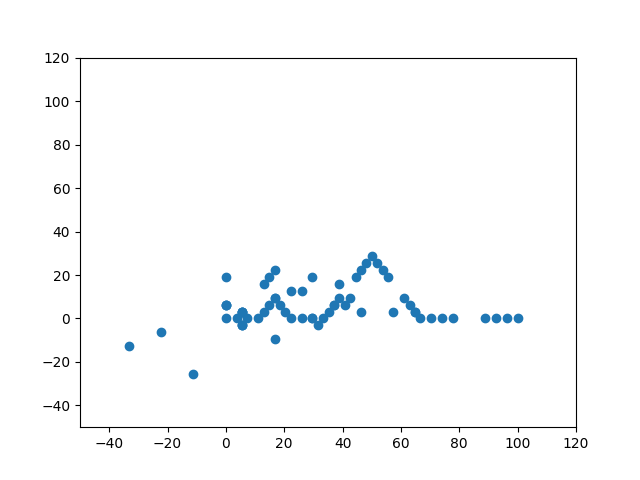
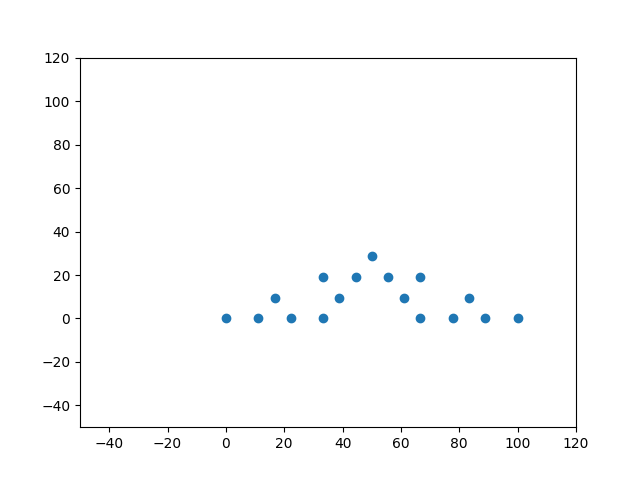
再帰-コッホ曲線完成

diff --git a/Aizu/Courses/ALDS1/5_C_コッホ曲線.py b/Aizu/Courses/ALDS1/5_C_コッホ曲線.py
@@ -1,11 +1,10 @@
 import io
 import sys
 import math
-import matplotlib.pyplot as plt
 _INPUT = """\
-2
+0
 """
-sys.stdin = io.StringIO(_INPUT)
+# sys.stdin = io.StringIO(_INPUT)
 
 
 def separateST(p1, p2):
@@ -27,7 +26,7 @@ def rotate(s, t):
     rad = math.radians(THETA)
     ux = math.cos(rad)*p[0] - math.sin(rad) * p[1]
     uy = math.sin(rad)*p[0] + math.cos(rad) * p[1]
-    return [ux + p[0], uy + p[1]]
+    return [ux + s[0], uy + s[1]]
 
 
 N = int(input())
@@ -35,13 +34,12 @@ N = int(input())
 # E = [50.00000000000001, 28.867513459481287]
 S = [0.0, 0.0]
 E = [100, 0.0]
-vertices = [S]
+print(*S)
 
 
 def KochCurve(n, S, E):
     if n == 0:
-        vertices.append(E)
-        print(E)
+        print(*E)
         return
     st = separateST(S, E)
     u = rotate(st[0], st[1])
@@ -51,17 +49,14 @@ def KochCurve(n, S, E):
     KochCurve(n-1, st[1], E)
 
 
-print(S)
-KochCurve(3, S, E)
+KochCurve(N, S, E)
 
+# x = []
+# y = []
 # for vertex in vertices:
-#     print(*vertex)
-x = []
-y = []
-for vertex in vertices:
-    x.append(vertex[0])
-    y.append(vertex[1])
-plt.scatter(x, y)
-plt.xlim(-50, 120)
-plt.ylim(-50, 120)
-plt.savefig("mygraph.png")
+#     x.append(vertex[0])
+#     y.append(vertex[1])
+# plt.scatter(x, y)
+# plt.xlim(-50, 120)
+# plt.ylim(-50, 120)
+# plt.savefig("mygraph.png")
